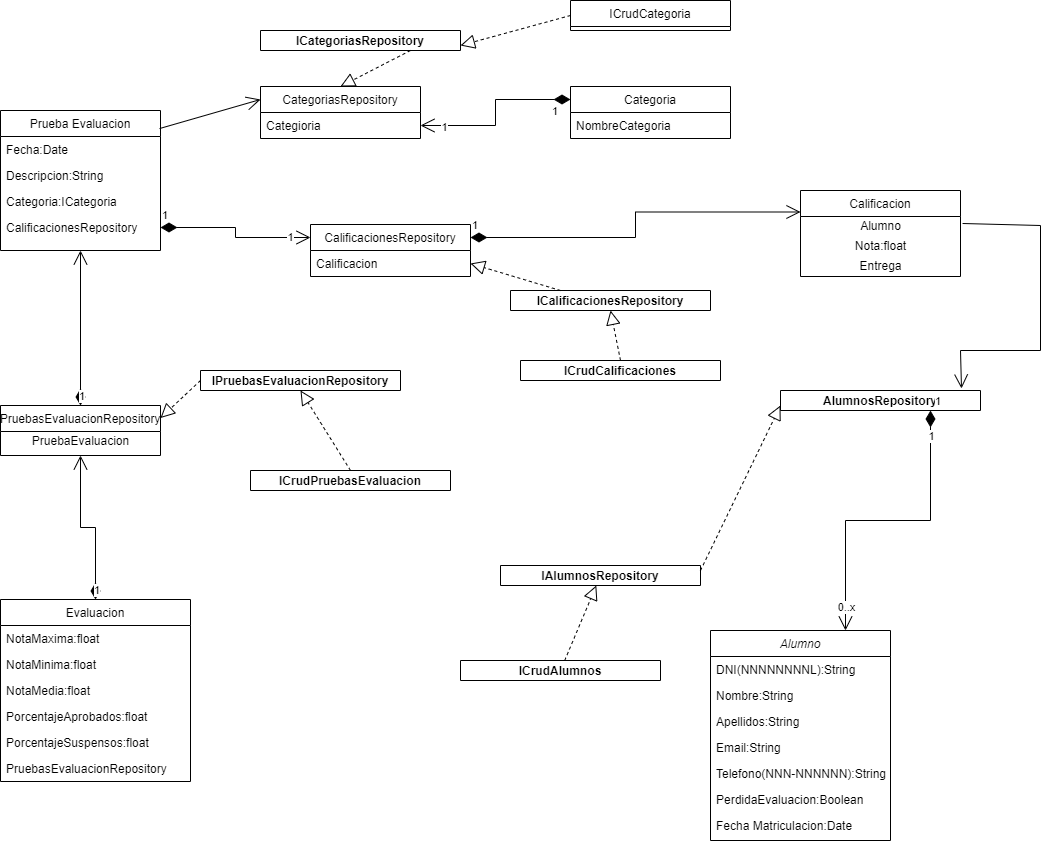
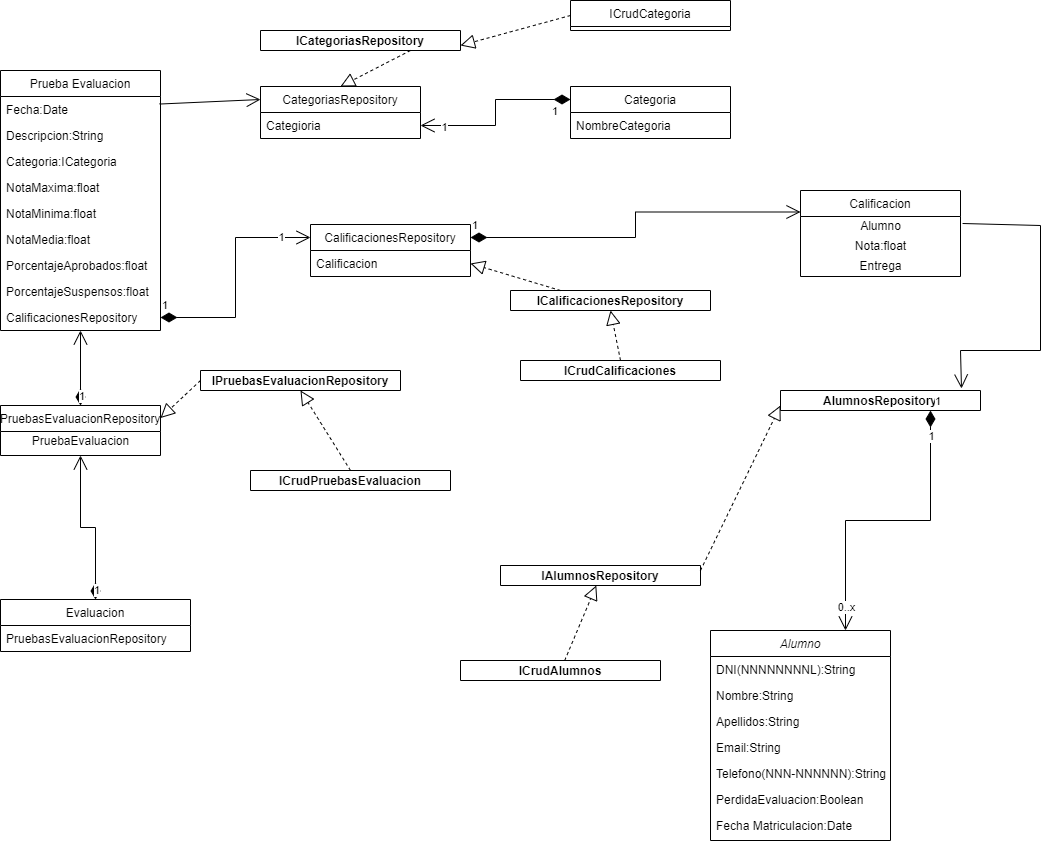
cambios diagrama y programa

diff --git a/Proyecto_SGC_Jan_Rocio/src/main/java/models/pruebaEvaluacion/PruebasEvaluacion.java b/Proyecto_SGC_Jan_Rocio/src/main/java/models/pruebaEvaluacion/PruebasEvaluacion.java
@@ -1,16 +1,20 @@
 package models.pruebaEvaluacion;
 
+import models.calificacion.Calificacion;
 import models.categoria.Categoria;
 import repositories.calificaciones.CalificacionRepository;
+import repositories.calificaciones.ICalificacionRepository;
+import utils.Format;
 
-import java.util.Date;
+import java.text.ParseException;
+import java.time.LocalDateTime;
 import java.util.Objects;
 
 public class PruebasEvaluacion {
     //Declaración de los atributos de la clase
     private static int contador = 0;
-    private int id;
-    private Date date;
+    private final int id;
+    private final LocalDateTime date;
     private String descripcion;
     private float maximumNote;
     private float minimumNote;
@@ -18,10 +22,10 @@ public class PruebasEvaluacion {
     private float passPercentages;
     private float failPercentages;
     private Categoria category;
-    private CalificacionRepository calificacionRepository;
+    private ICalificacionRepository<Calificacion> calificacionRepository;
 
 
-    public PruebasEvaluacion(Date date, String descripcion, float maximumNote, float minimumNote,
+    public PruebasEvaluacion(LocalDateTime date, String descripcion, float maximumNote, float minimumNote,
                              float averageGrade, float passPercentages, float failPercentages, Categoria category,
                              CalificacionRepository calificacionRepository) {
         this.id = ++contador;
@@ -36,28 +40,13 @@ public class PruebasEvaluacion {
         this.calificacionRepository = calificacionRepository;
     }
 
-    public static int getContador() {
-        return contador;
-    }
-
-    public static void setContador(int contador) {
-        PruebasEvaluacion.contador = contador;
-    }
 
     public int getId() {
         return id;
     }
 
-    public void setId(int id) {
-        this.id = id;
-    }
-
-    public Date getDate() {
-        return date;
-    }
-
-    public void setDate(Date date) {
-        this.date = date;
+    public String getDate() throws ParseException {
+        return Format.formatDateMedium(date);
     }
 
     public String getDescripcion() {
@@ -116,7 +105,7 @@ public class PruebasEvaluacion {
         this.category = category;
     }
 
-    public CalificacionRepository getCalificacionRepository() {
+    public ICalificacionRepository getCalificacionRepository() {
         return calificacionRepository;
     }
 
@@ -127,18 +116,24 @@ public class PruebasEvaluacion {
 
     @Override
     public String toString() {
-        return "PruebasEvaluacion{" +
-                "id=" + id +
-                ", date=" + date +
-                ", descripcion='" + descripcion + '\'' +
-                ", maximumNote=" + maximumNote +
-                ", minimumNote=" + minimumNote +
-                ", averageGrade=" + averageGrade +
-                ", passPercentages=" + passPercentages +
-                ", failPercentages=" + failPercentages +
-                ", categoriaRepository=" + category +
-                ", calificacionRepository=" + calificacionRepository +
-                '}';
+    String result = "";
+            try {
+                result= "PruebasEvaluacion{" +
+                        "id=" + id +
+                        ", date=" + Format.formatDateMedium(date) +
+                        ", descripcion='" + descripcion + '\'' +
+                        ", maximumNote=" + maximumNote +
+                        ", minimumNote=" + minimumNote +
+                        ", averageGrade=" + averageGrade +
+                        ", passPercentages=" + passPercentages +
+                        ", failPercentages=" + failPercentages +
+                        ", categoriaRepository=" + category +
+                        ", calificacionRepository=" + calificacionRepository +
+                        '}';
+            } catch (ParseException e) {
+                e.printStackTrace();
+            }
+        return result;
     }
 
     @Override

diff --git a/Proyecto_SGC_Jan_Rocio/src/main/java/models/calificacion/Calificacion.java b/Proyecto_SGC_Jan_Rocio/src/main/java/models/calificacion/Calificacion.java
@@ -30,27 +30,15 @@ public class Calificacion {
 
     //-----------------------------Getter and Setter------------------------------------//
 
-    public static int getContador() {
-        return contador;
-    }
-
-    public static void setContador(int contador) {
-        Calificacion.contador = contador;
-    }
-
     public int getId() {
         return id;
-    }
-
-    public void setId(int id) {
-        this.id = id;
     }
 
     public Alumno getStudent() {
         return student;
     }
 
-    public void getStudent(Alumno alumno) {
+    public void setStudent(Alumno alumno) {
         this.student = alumno;
     }
 

diff --git a/Proyecto_SGC_Jan_Rocio/src/main/java/exceptions/evaluacionException.java b/Proyecto_SGC_Jan_Rocio/src/main/java/exceptions/evaluacionException.java
@@ -1,13 +1,15 @@
 package exceptions;
 
+import com.diogonunes.jcolor.Attribute;
+
+import static com.diogonunes.jcolor.Ansi.colorize;
+
 public class EvaluacionException extends Exception {
-
-
     /**
-     * Exception de la evaluación
-     * @param mensaje que se muestra al saltar la exception controlada.
+     * Exception de evaluación
+     * @param message mensaje que queremos devolver de la exception
      */
-    public EvaluacionException (String mensaje){
-        super();
+    public EvaluacionException(String message){
+        super(colorize(message, Attribute.RED_TEXT()));
     }
 }

diff --git a/Proyecto_SGC_Jan_Rocio/src/main/java/utils/Format.java b/Proyecto_SGC_Jan_Rocio/src/main/java/utils/Format.java
@@ -18,4 +18,15 @@ public class Format {
         return date.format(DateTimeFormatter
                 .ofLocalizedDate(FormatStyle.SHORT).withLocale(locale));
     }
+
+    /**
+     * Formatear la salida de una fecha.
+     * @param date fecha a parsear.
+     * @return String de fecha formateado.
+     */
+    public static String formatDateMedium(LocalDateTime date) throws ParseException {
+        final Locale locale = new Locale("es", "ES");
+        return date.format(DateTimeFormatter
+                .ofLocalizedDate(FormatStyle.MEDIUM).withLocale(locale));
+    }
 }

diff --git a/Proyecto_SGC_Jan_Rocio/src/main/java/controllers/CategoriaController.java b/Proyecto_SGC_Jan_Rocio/src/main/java/controllers/CategoriaController.java
@@ -1,8 +1,6 @@
 package controllers;
 
-import exceptions.AlumnoException;
 import exceptions.CategoriaException;
-import models.alumno.Alumno;
 import models.categoria.Categoria;
 
 import repositories.categoria.ICategoriaRepository;

diff --git a/Proyecto_SGC_Jan_Rocio/src/main/java/storage/IExport.java b/Proyecto_SGC_Jan_Rocio/src/main/java/storage/IExport.java
@@ -1,5 +1,8 @@
 package storage;
 
 public interface IExport<T> {
+    void init(String path);
+    String pathSave(String directory);
+    void createPath(String path);
     void save(T item);
 }
